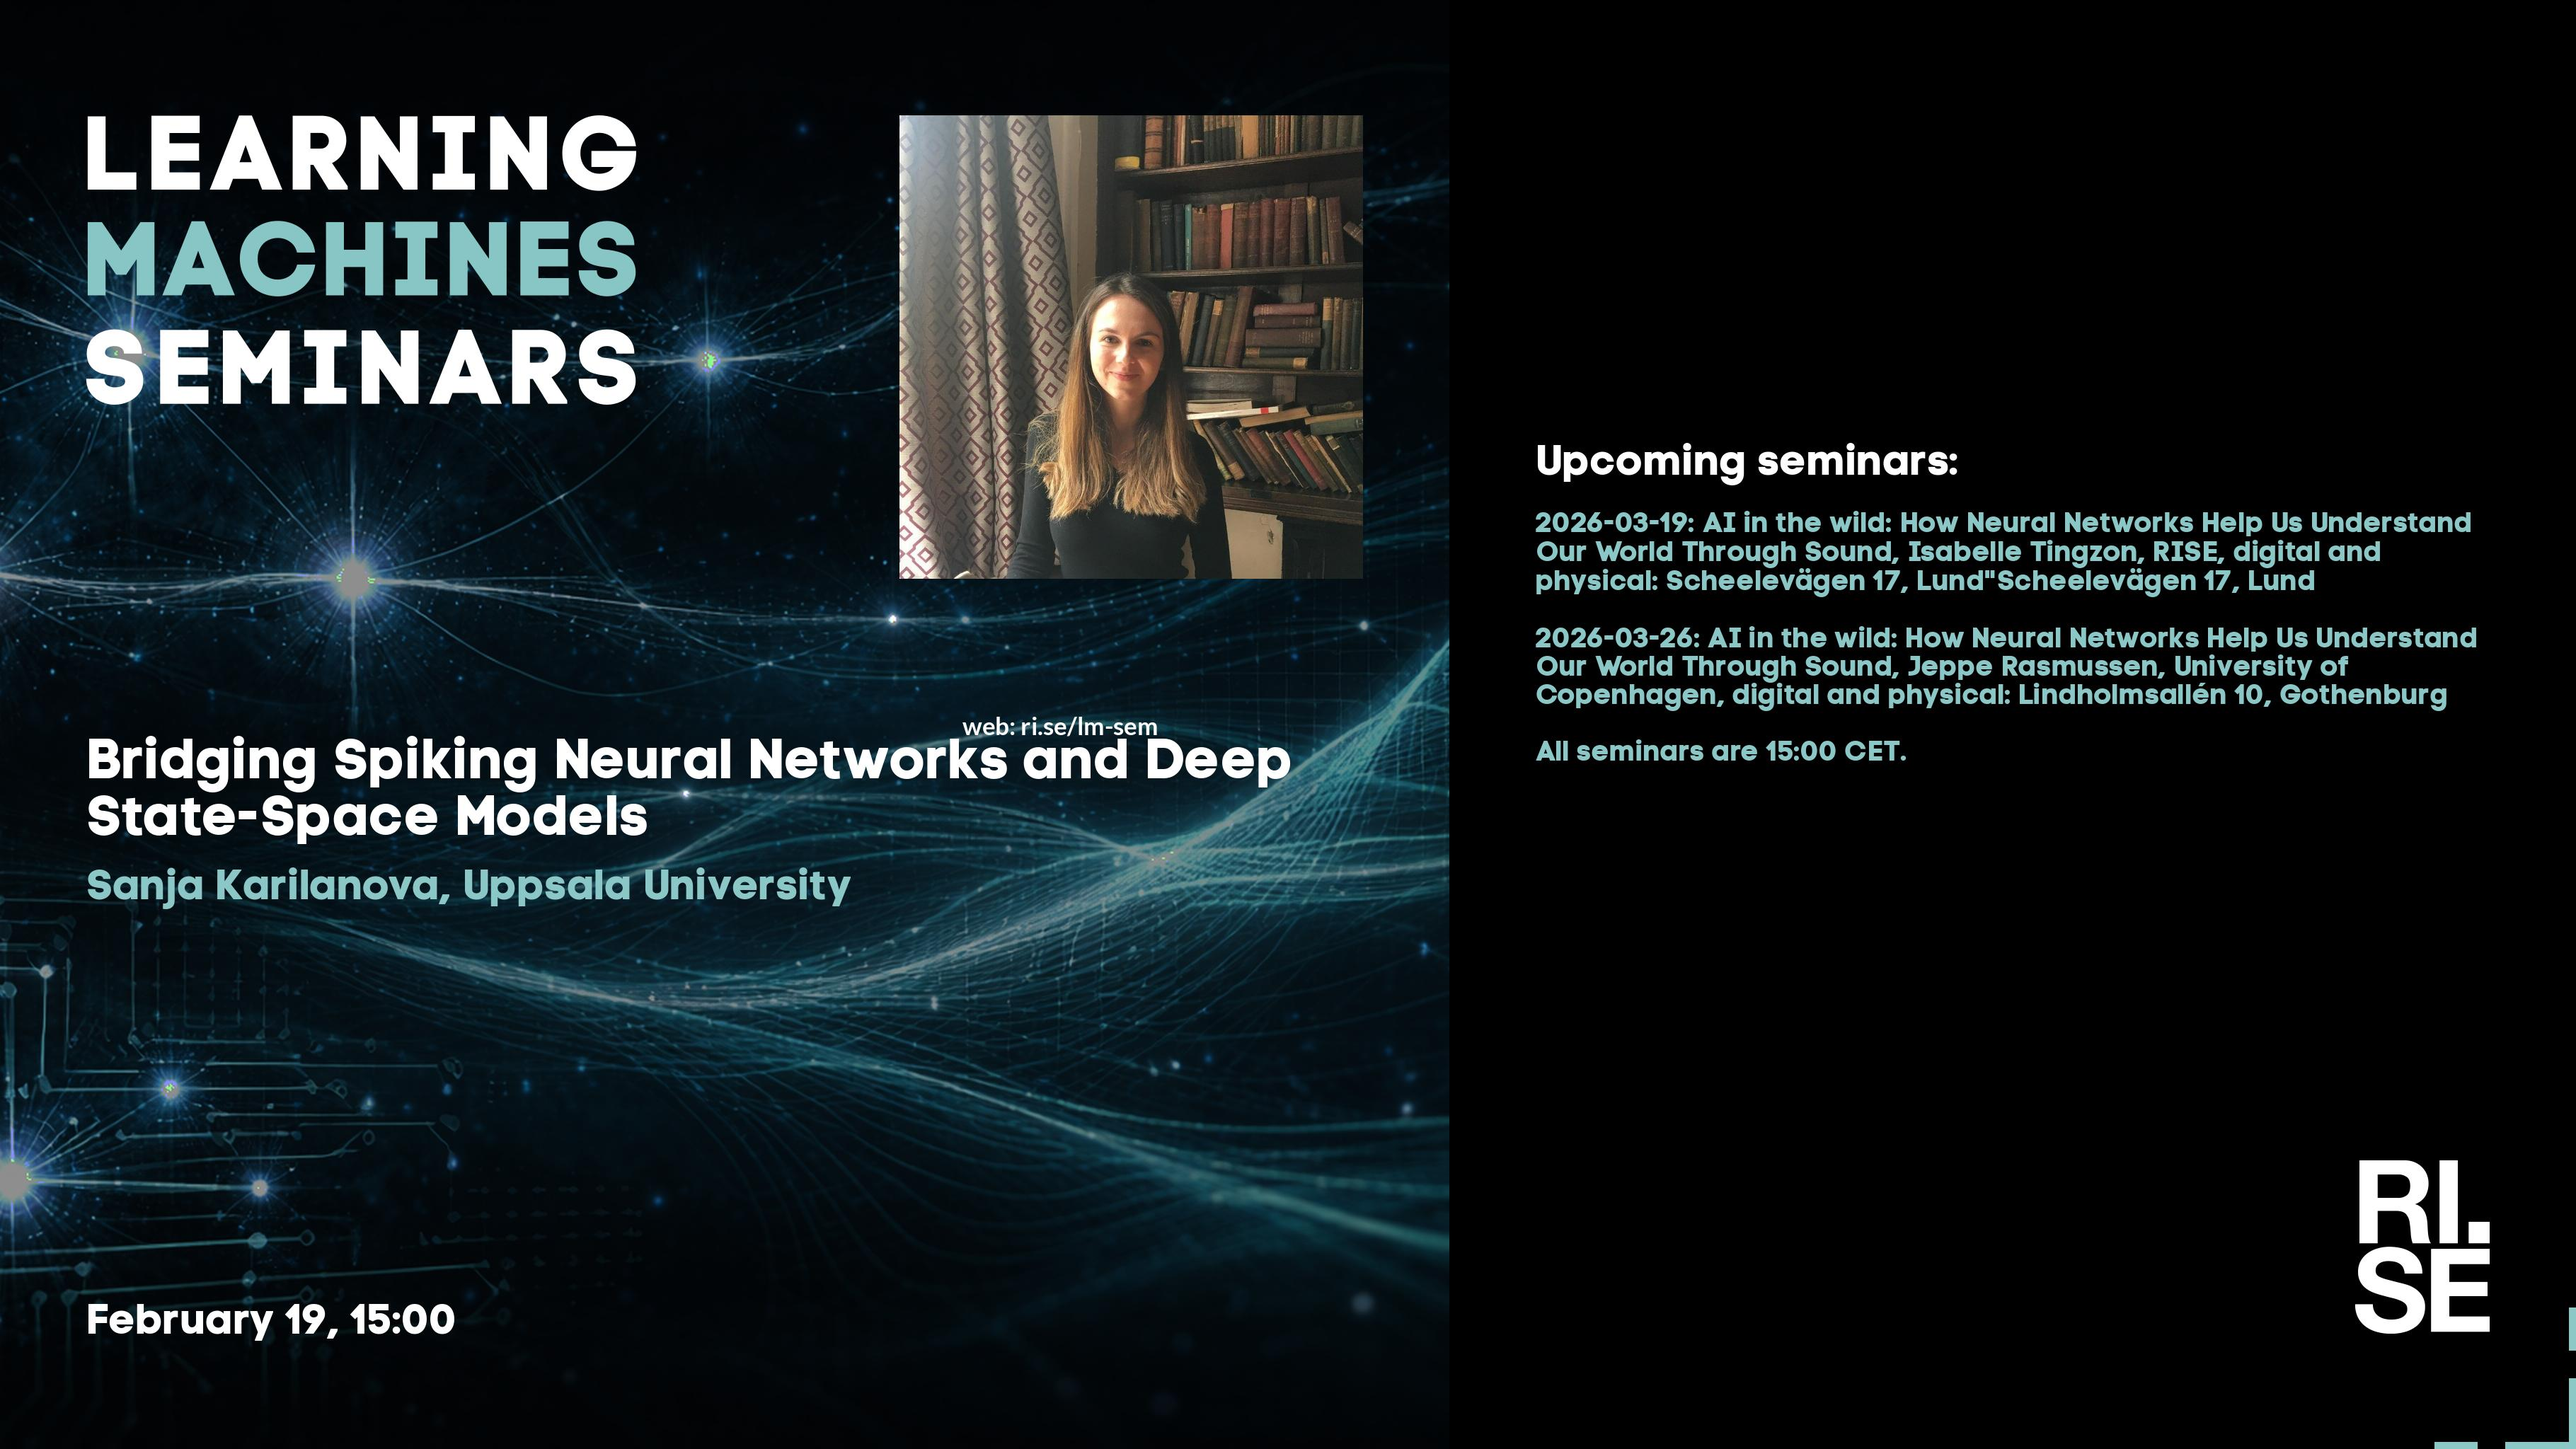
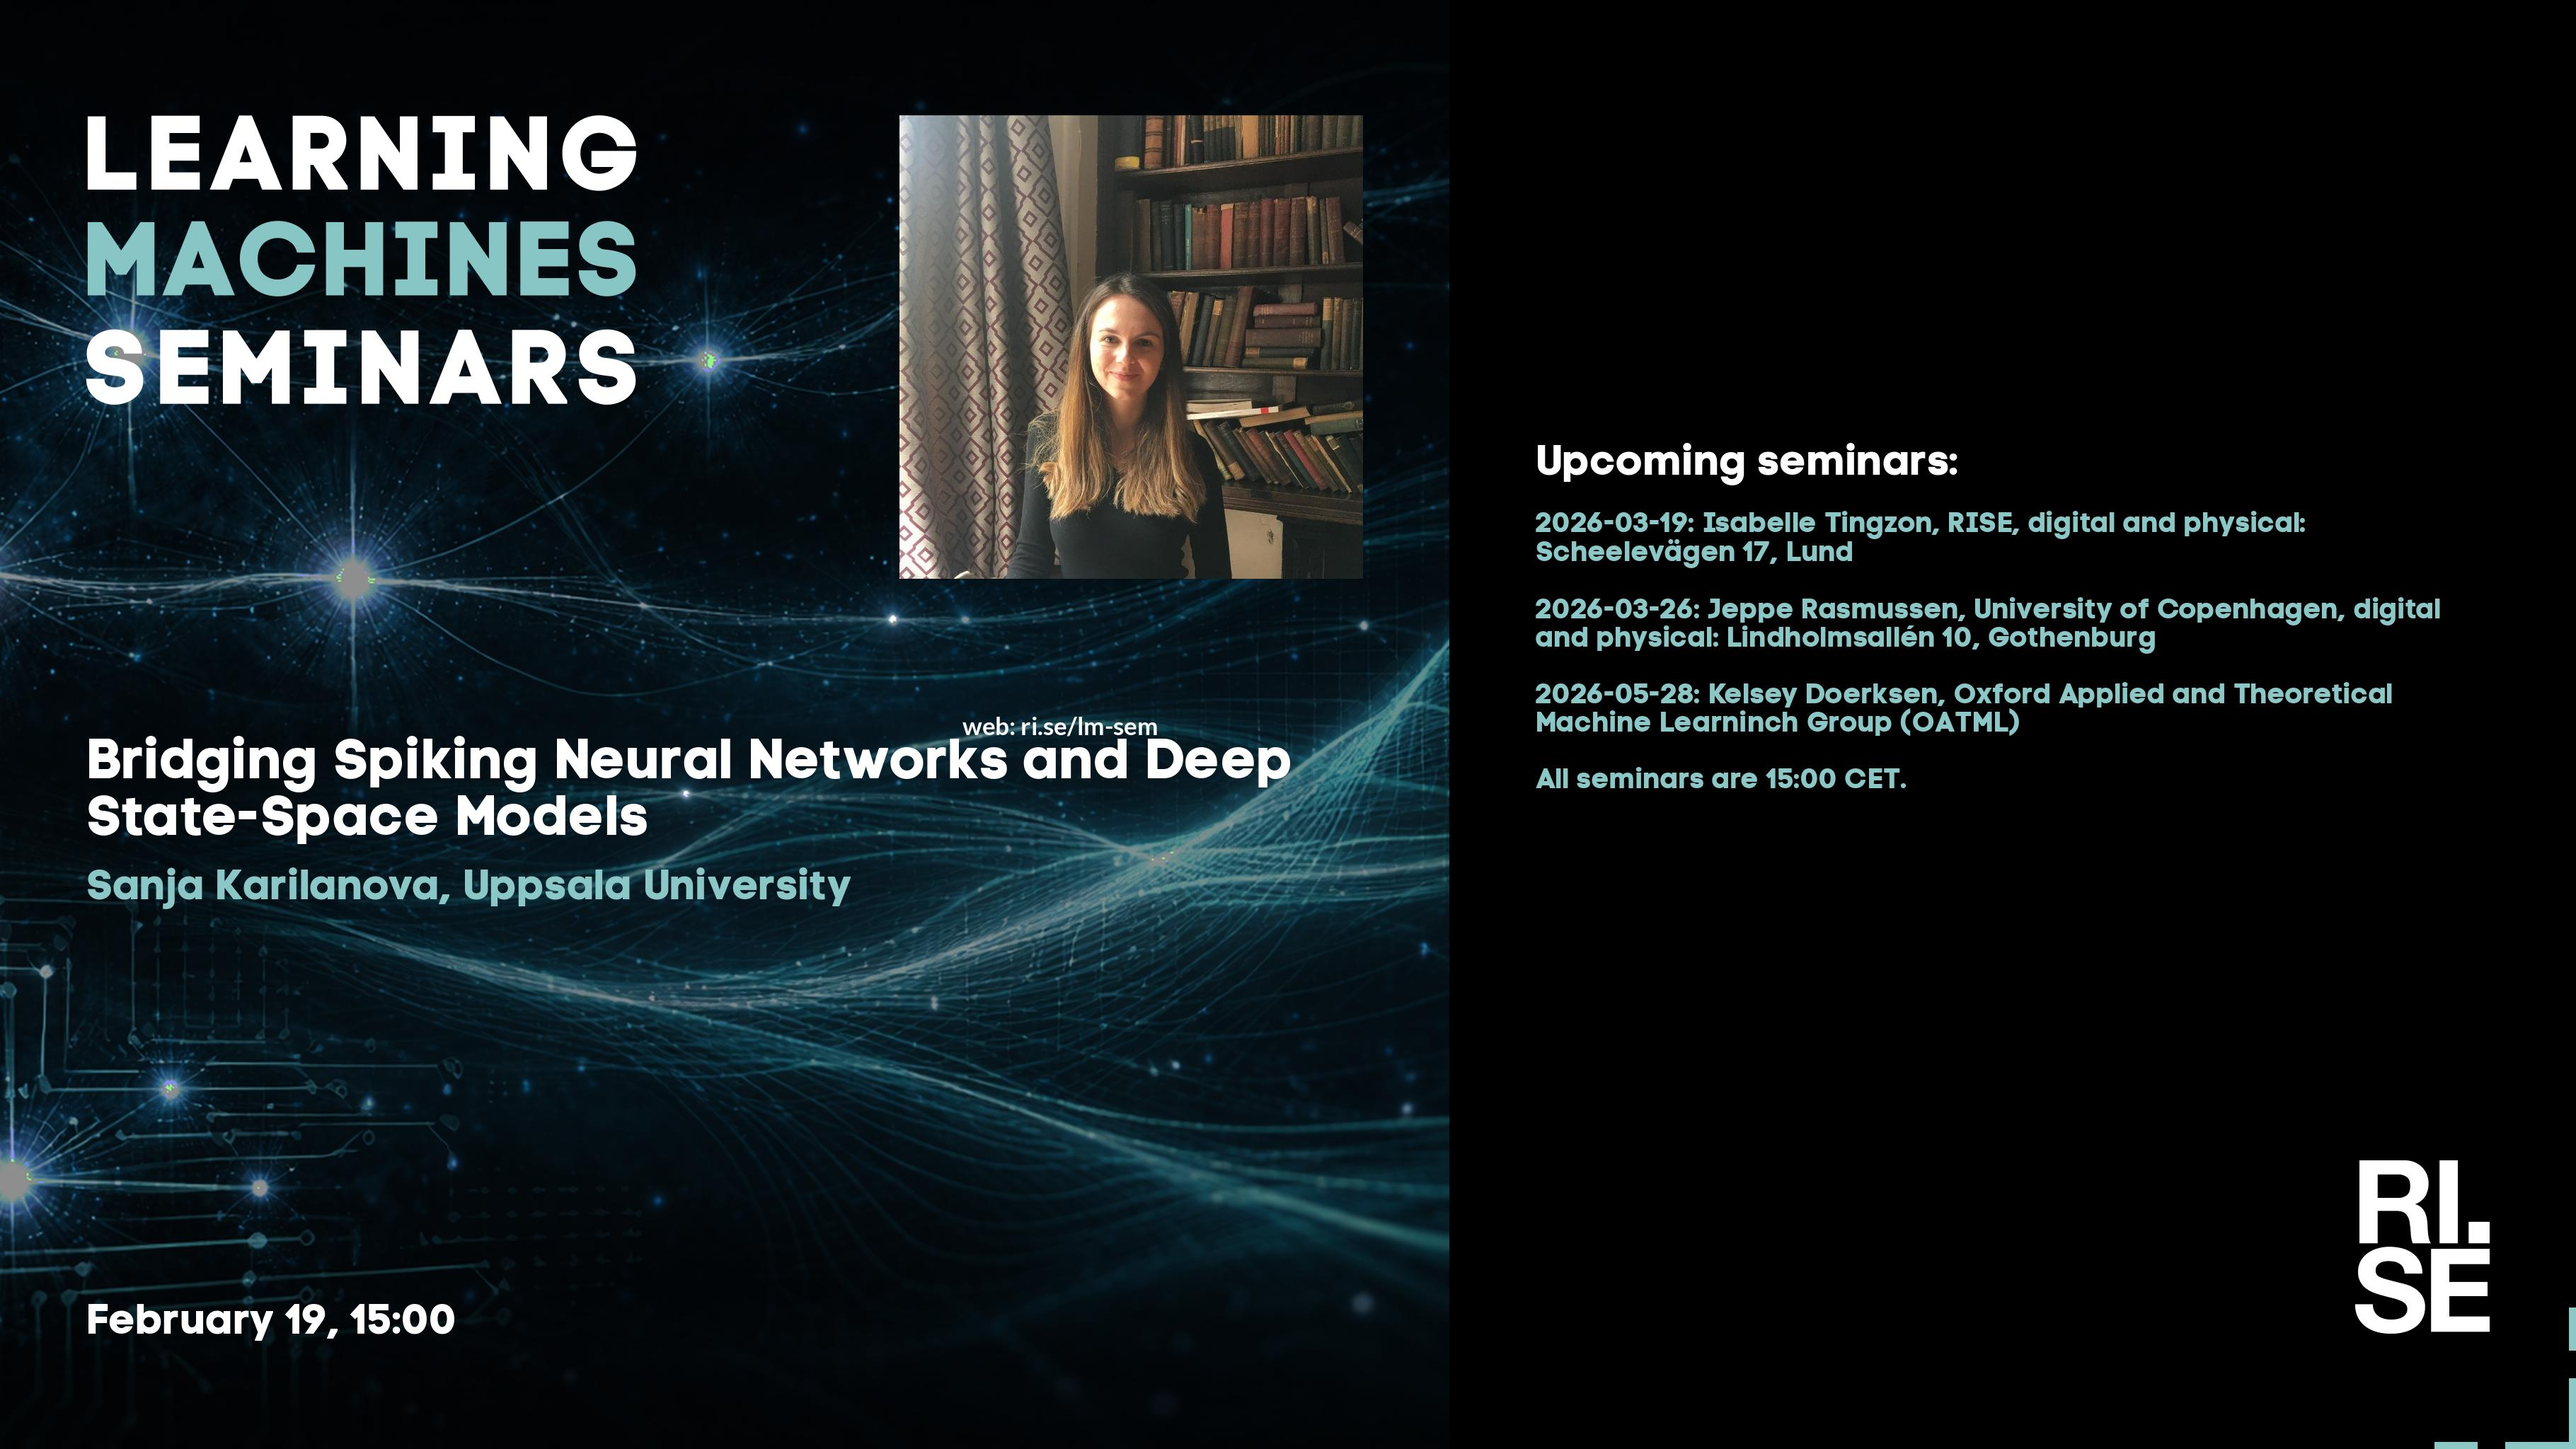
Updated plan on web site.

Changed region(s): [[0.5898, 0.3438, 0.9624, 0.5625]]

diff --git a/lm/2026-02-05.md b/lm/2026-02-05.md
@@ -24,10 +24,10 @@ In this talk, we present end-to-end frameworks that merge state-of-the-art AI wi
 
 **Upcoming seminars:**
 
-* 2026-02-19: *Machine learning based classification of tree crops of Syrian Arab Republic*, Sanja Karilanova, Uppsala University
-* 2026-03-19: *Machine learning based classification of tree crops of Syrian Arab Republic*, Isabelle Tingzon, RISE, **digital and physical: Scheelevägen 17, Lund"Scheelevägen 17, Lund**
-* 2026-03-26: *Machine learning based classification of tree crops of Syrian Arab Republic*, Jeppe Rasmussen, University of Copenhagen, **digital and physical: Lindholmsallén 10, Gothenburg**
-* 2026-04-23: *Machine learning based classification of tree crops of Syrian Arab Republic*, Purnendu Sardar, Lund University, **digital and physical: Scheelevägen 17, Lund**
+* 2026-02-19: Sanja Karilanova, Uppsala University
+* 2026-03-19: Isabelle Tingzon, RISE, **digital and physical: Scheelevägen 17, Lund**
+* 2026-03-26: Jeppe Rasmussen, University of Copenhagen, **digital and physical: Lindholmsallén 10, Gothenburg**
+* 2026-05-28: Kelsey Doerksen, Oxford Applied and Theoretical Machine Learninch Group (OATML)
 * All seminars are 15:00 CET.
 
 More information and coming seminars: [https://ri.se/lm-sem](https://ri.se/lm-sem)

diff --git a/lm/2026-02-19.md b/lm/2026-02-19.md
@@ -22,8 +22,9 @@ Welcome to this week's Learning Machines seminar.
 
 **Upcoming seminars:**
 
-* 2026-03-19: *AI in the wild: How Neural Networks Help Us Understand Our World Through Sound*, Isabelle Tingzon, RISE, **digital and physical: Scheelevägen 17, Lund"Scheelevägen 17, Lund**
-* 2026-03-26: *AI in the wild: How Neural Networks Help Us Understand Our World Through Sound*, Jeppe Rasmussen, University of Copenhagen, **digital and physical: Lindholmsallén 10, Gothenburg**
+* 2026-03-19: Isabelle Tingzon, RISE, **digital and physical: Scheelevägen 17, Lund**
+* 2026-03-26: Jeppe Rasmussen, University of Copenhagen, **digital and physical: Lindholmsallén 10, Gothenburg**
+* 2026-05-28: Kelsey Doerksen, Oxford Applied and Theoretical Machine Learninch Group (OATML)
 * All seminars are 15:00 CET.
 
 More information and coming seminars: [https://ri.se/lm-sem](https://ri.se/lm-sem)
